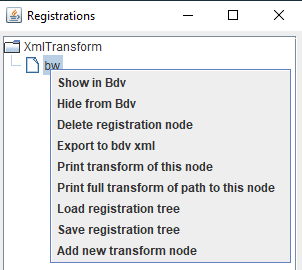
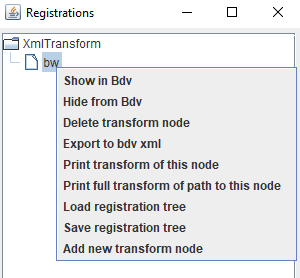
rename delete node

Changed region(s): [[0.0, 0.1185, 0.99, 1.0], [0.0, 0.0, 1.0, 0.0889]]

diff --git a/src/main/java/de/embl/schwab/registrationTree/ui/RegistrationContextMenu.java b/src/main/java/de/embl/schwab/registrationTree/ui/RegistrationContextMenu.java
@@ -74,7 +74,7 @@ public class RegistrationContextMenu {
                     }).start();
                 }
             };
-            addPopupAction("Delete registration node", deleteListener);
+            addPopupAction("Delete transform node", deleteListener);
 
             // If there is no spimdata (i.e. it was loaded directly from Source, and not from an xml), then we can't
             // export to an xml
